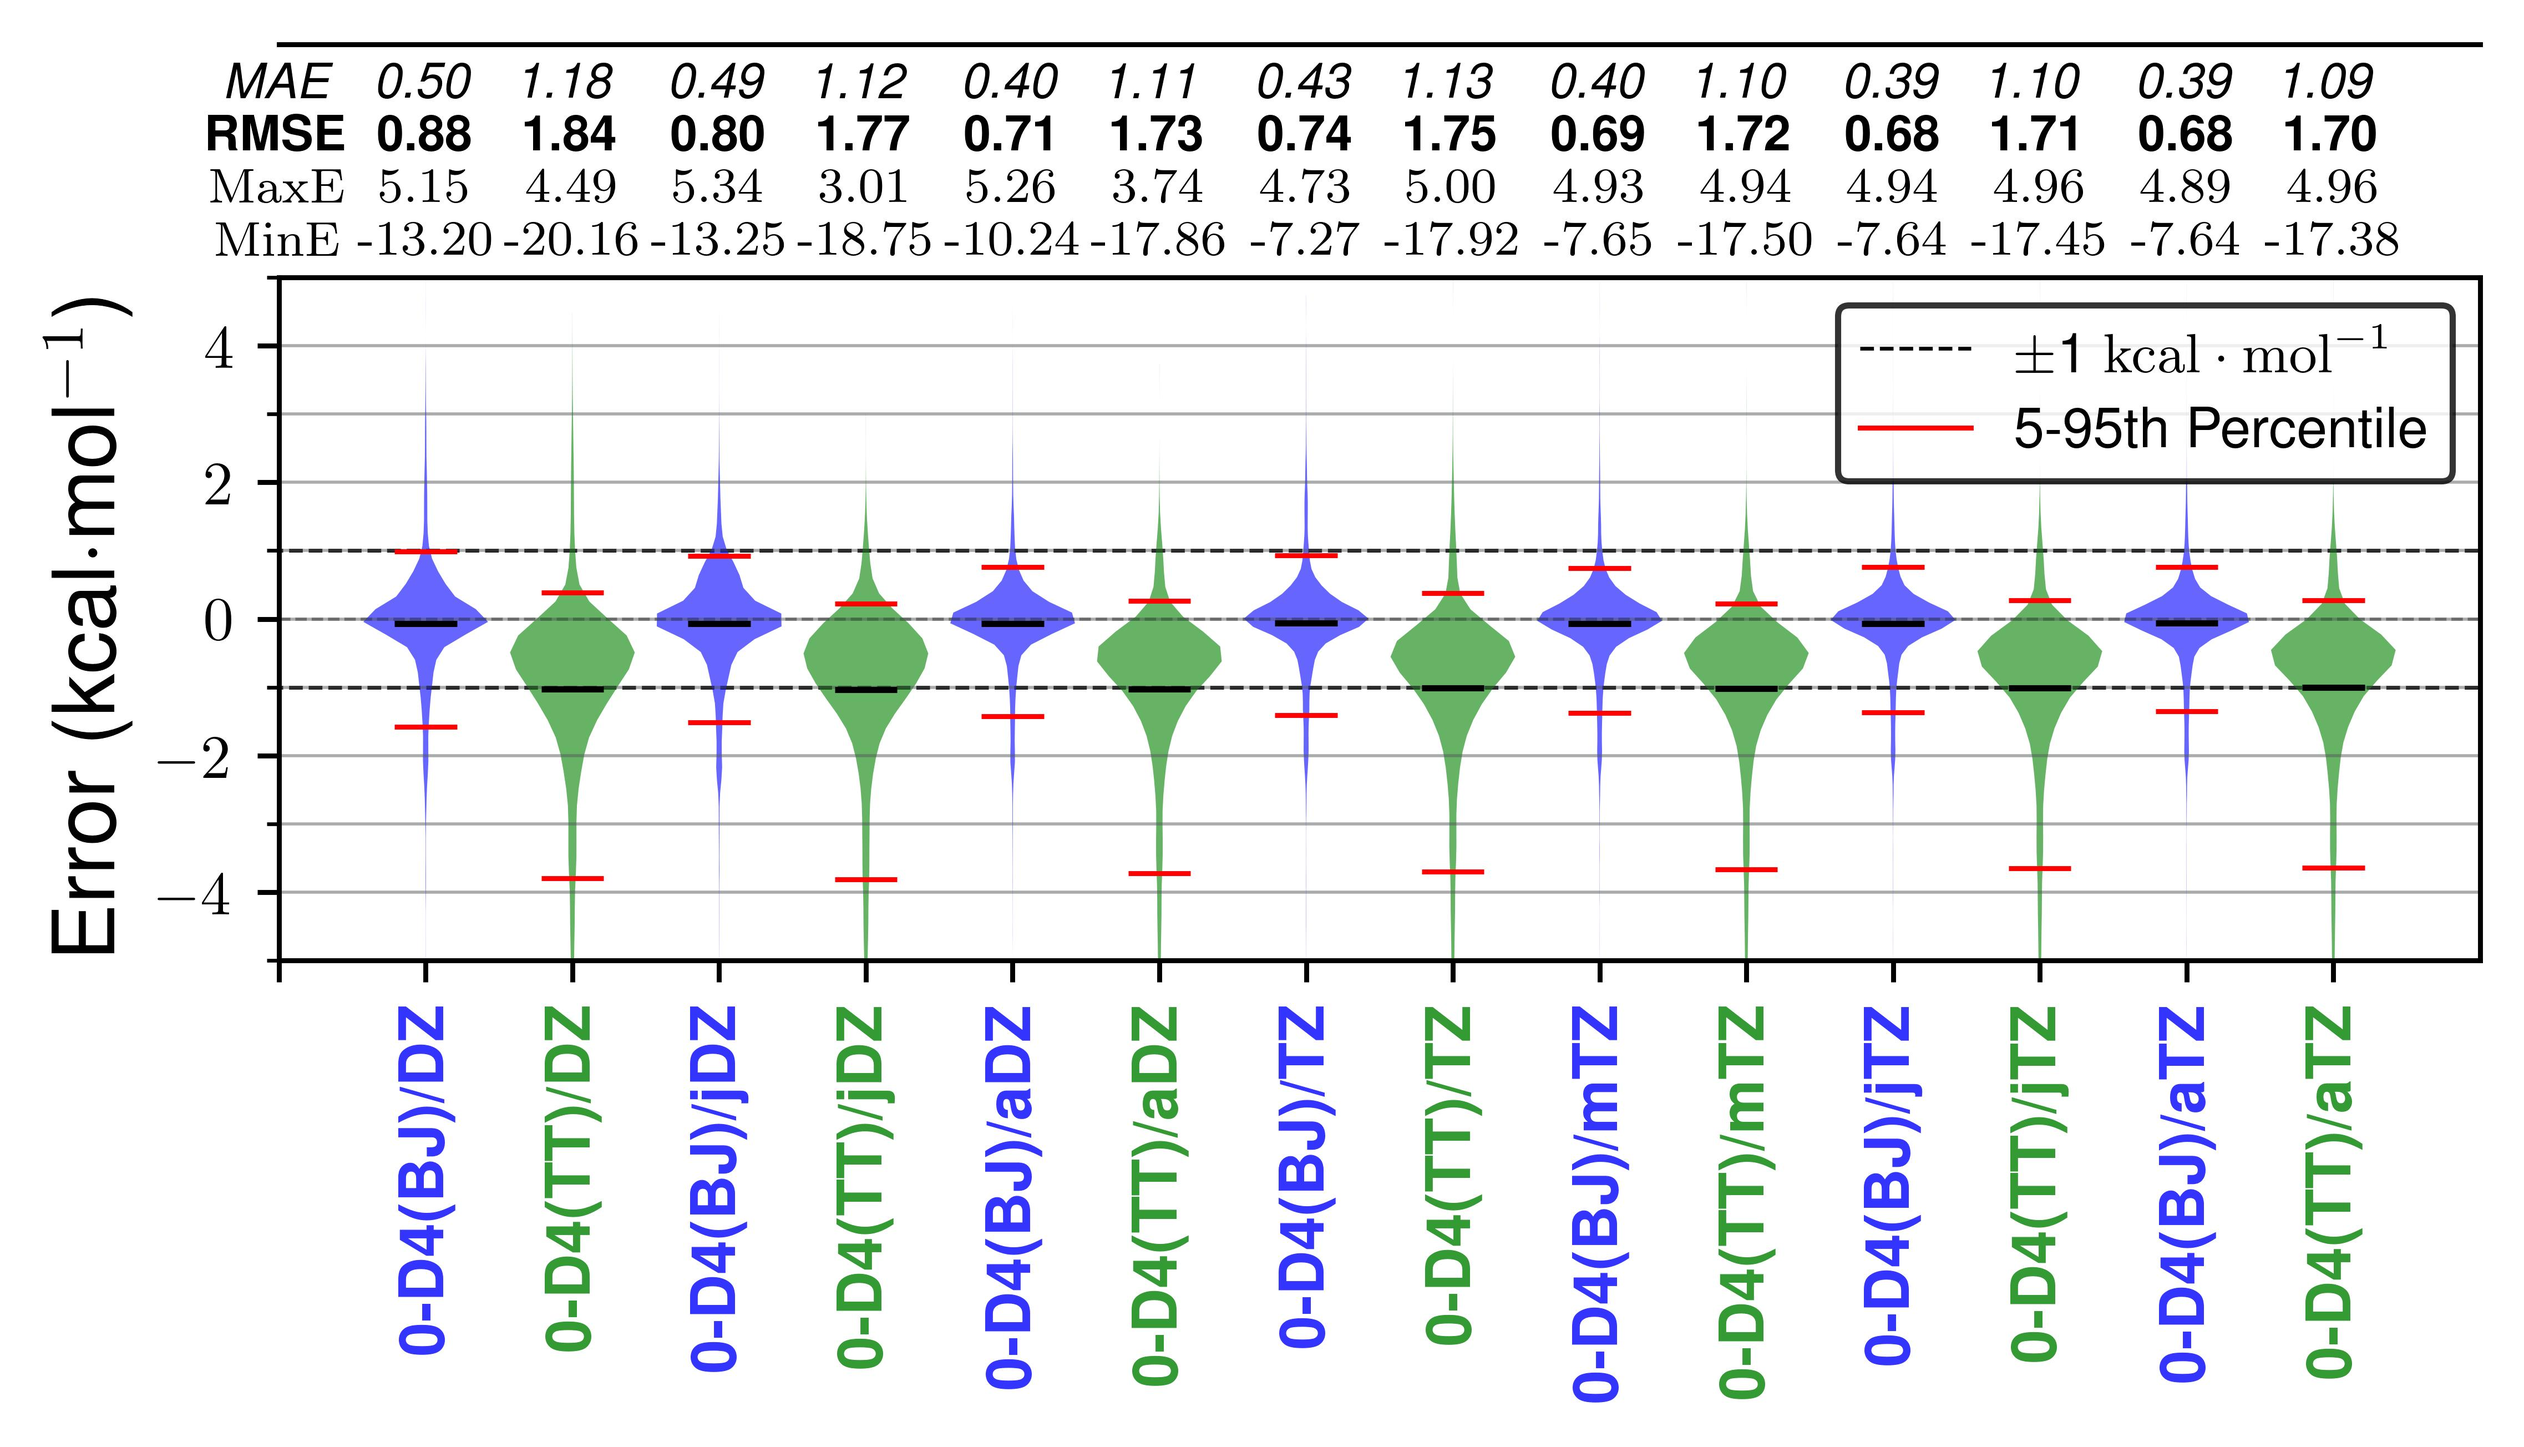
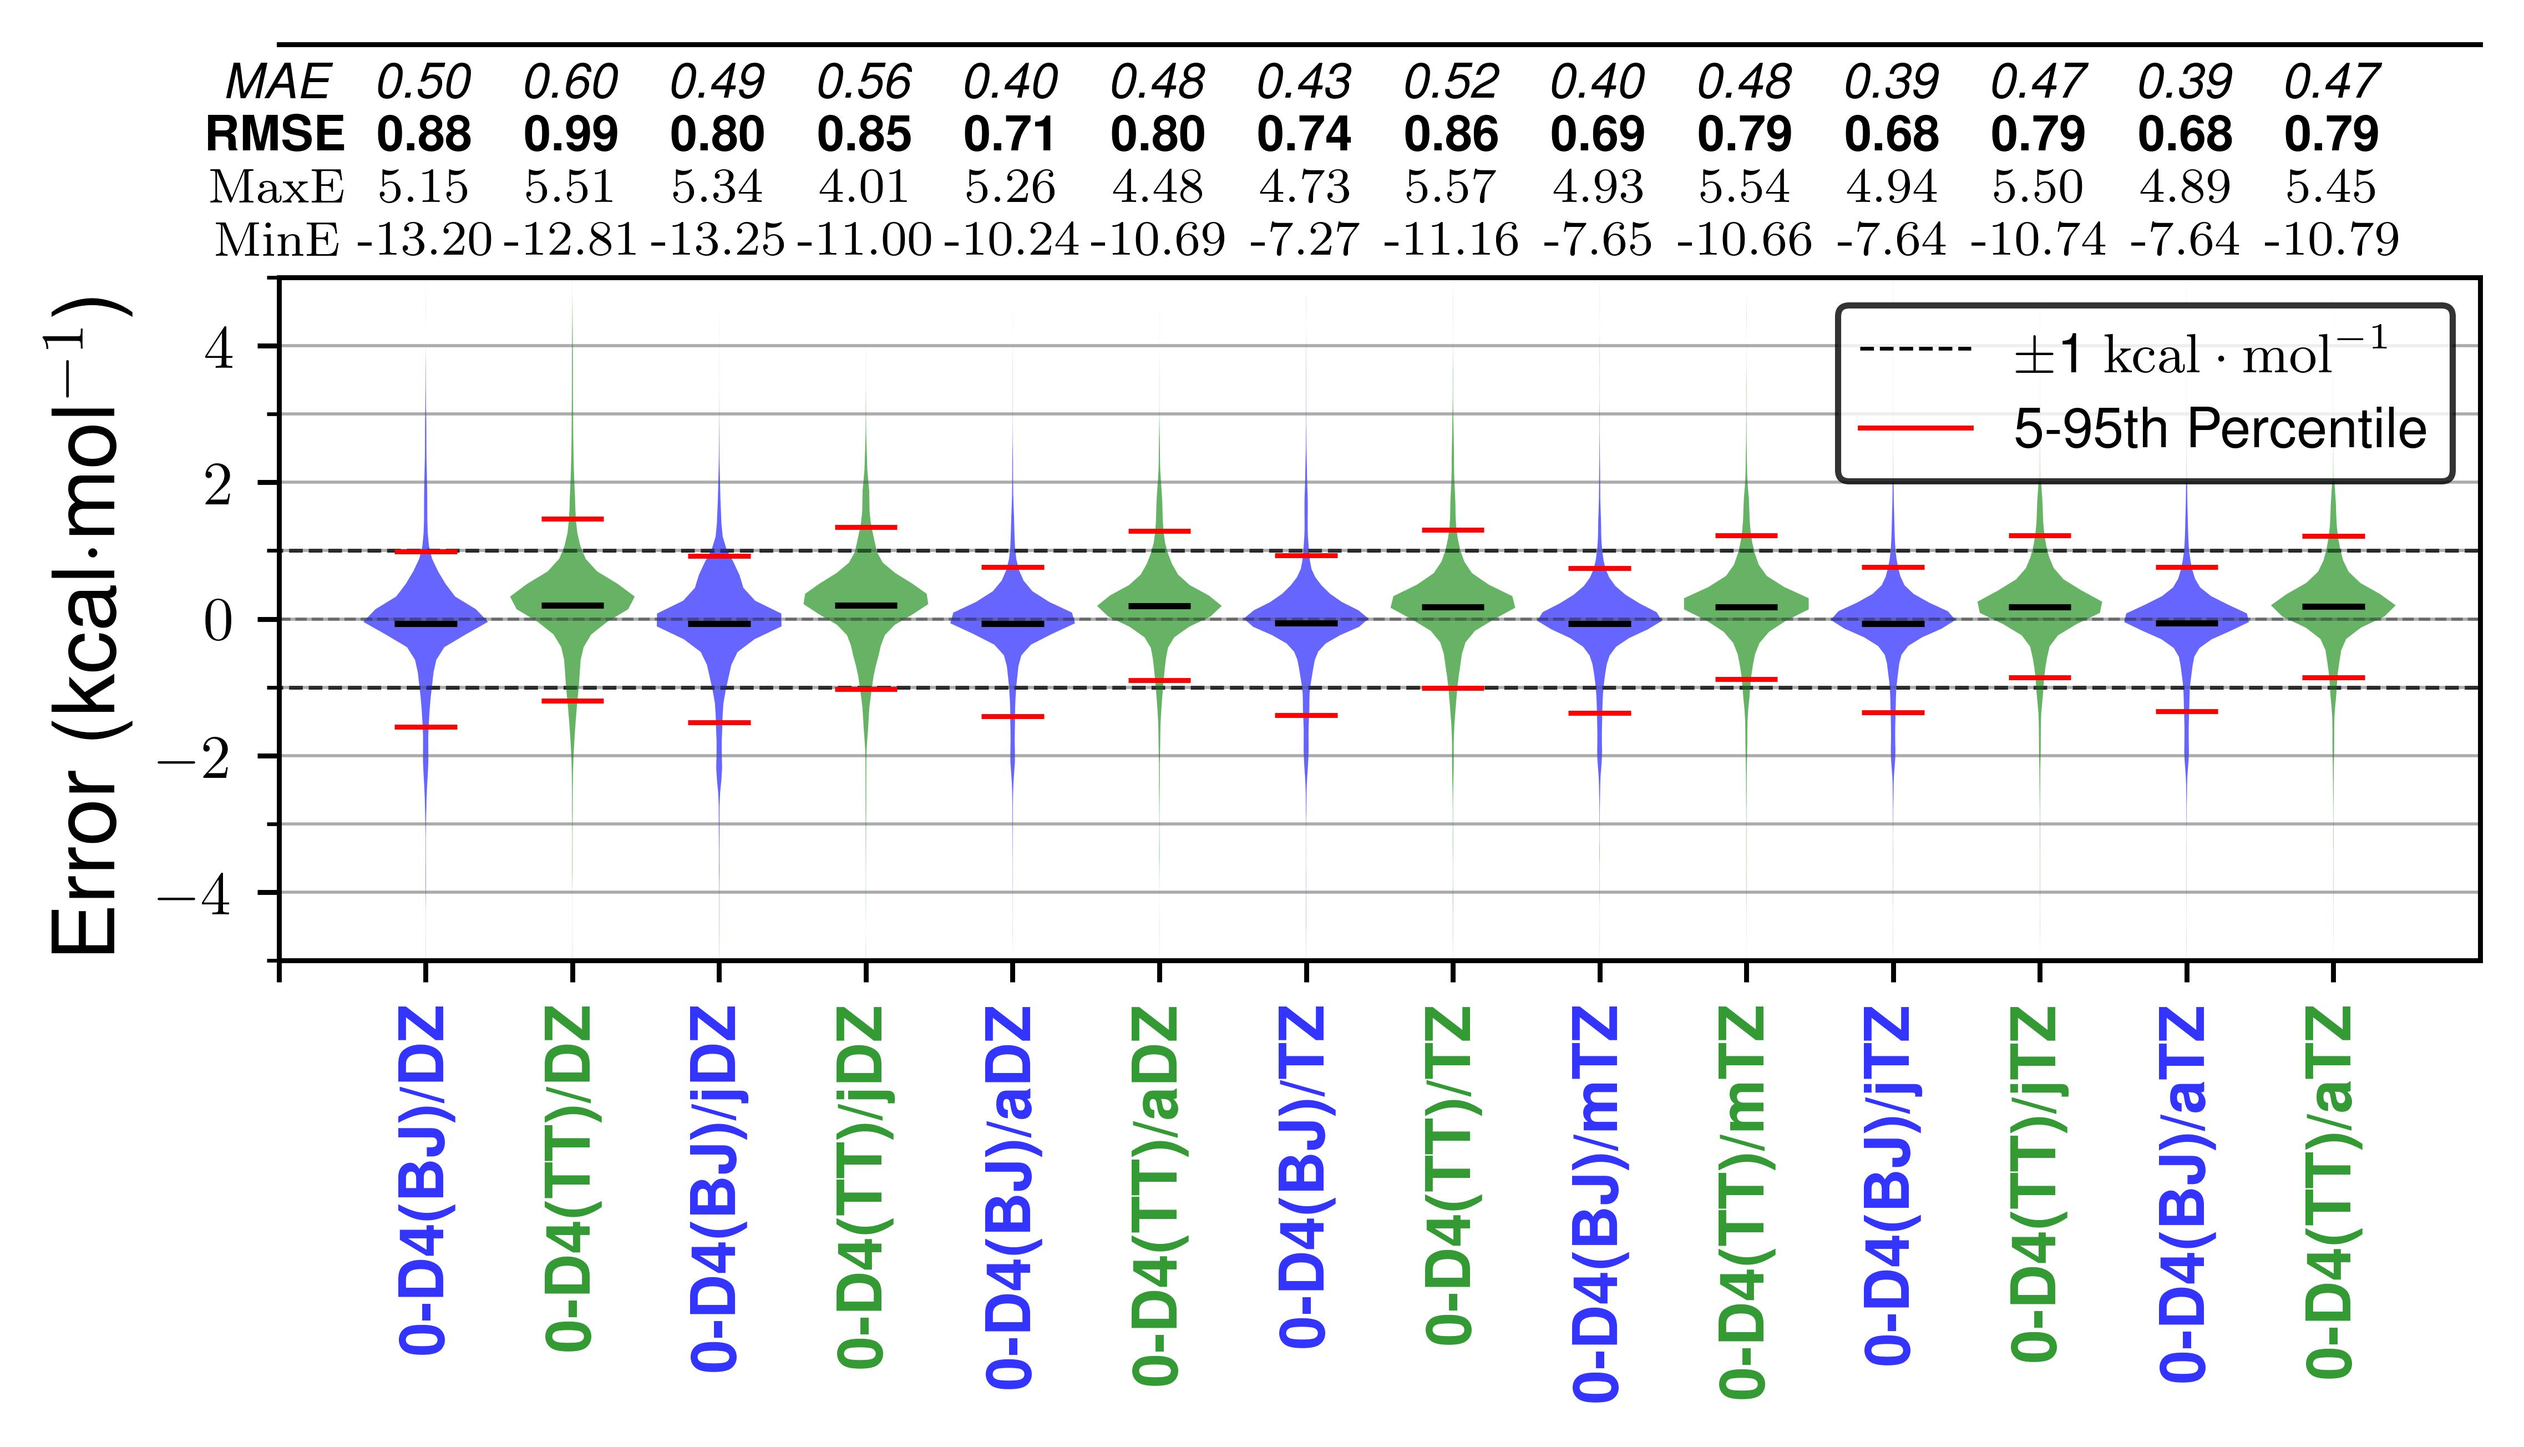
hbc1 plots

diff --git a/src/paramsTable.py b/src/paramsTable.py
@@ -157,46 +157,58 @@ def paramsDict() -> {}:
             dtype=np.float64,
         ),
         # 2B TT, no ATM
-        "SAPT0_adz_3_IE_2B_TT": np.array(
+        "SAPT0_dz_3_IE_2B_TT": np.array(
             [
-                [1.0, 0.15608556, -0.33516031, 3.88601556, 0.0],
-                [1.0, 0.15608556, -0.33516031, 3.88601556, 0.0],
+                [1.0, 0.29125971, -0.48591514, 5.44574031, 0.0],
+                [1.0, 0.29125971, -0.48591514, 5.44574031, 0.0],
             ]
         ),
         "SAPT0_jdz_3_IE_2B_TT": np.array(
             [
-                [1.0, 0.13964684, -0.33516374, 3.90019226, 0.0],
-                [1.0, 0.13964684, -0.33516374, 3.90019226, 0.0],
+                [1.0, 0.28665436, -0.42204918, 5.12601723, 0.0],
+                [1.0, 0.28665436, -0.42204918, 5.12601723, 0.0],
             ]
         ),
-        "SAPT0_dz_3_IE_2B_TT": np.array(
+        "SAPT0_adz_3_IE_2B_TT": np.array(
             [
-                [1.0, 0.14640137, -0.33539648, 3.89159297, 0.0],
-                [1.0, 0.14640137, -0.33539648, 3.89159297, 0.0],
-            ]
-        ),
-        "SAPT0_mtz_3_IE_2B_TT": np.array(
-            [
-                [1.0, 0.16657909, -0.33519359, 3.88207733, 0.0],
-                [1.0, 0.16657909, -0.33519359, 3.88207733, 0.0],
-            ]
-        ),
-        "SAPT0_jtz_3_IE_2B_TT": np.array(
-            [
-                [1.0, 0.16800654, -0.335142, 3.87820076, 0.0],
-                [1.0, 0.16800654, -0.335142, 3.87820076, 0.0],
-            ]
-        ),
-        "SAPT0_atz_3_IE_2B_TT": np.array(
-            [
-                [1.0, 0.16863906, -0.33510403, 3.87576844, 0.0],
-                [1.0, 0.16863906, -0.33510403, 3.87576844, 0.0],
+                [1.0, 0.29460761, -0.44651087, 5.23479126, 0.0],
+                [1.0, 0.29460761, -0.44651087, 5.23479126, 0.0],
             ]
         ),
         "SAPT0_tz_3_IE_2B_TT": np.array(
             [
-                [1.0, 0.17021906, -0.33526289, 3.87804042, 0.0],
-                [1.0, 0.17021906, -0.33526289, 3.87804042, 0.0],
+                [1.0, 0.30253649, -0.4865003, 5.40923461, 0.0],
+                [1.0, 0.30253649, -0.4865003, 5.40923461, 0.0],
+            ]
+        ),
+        "SAPT0_mtz_3_IE_2B_TT": np.array(
+            [
+                [1.0, 0.2992232, -0.44919431, 5.23014423, 0.0],
+                [1.0, 0.2992232, -0.44919431, 5.23014423, 0.0],
+            ]
+        ),
+        "SAPT0_jtz_3_IE_2B_TT": np.array(
+            [
+                [1.0, 0.3012145, -0.45505488, 5.25168685, 0.0],
+                [1.0, 0.3012145, -0.45505488, 5.25168685, 0.0],
+            ]
+        ),
+        "SAPT0_atz_3_IE_2B_TT": np.array(
+            [
+                [1.0, 0.30261729, -0.4555023, 5.24588173, 0.0],
+                [1.0, 0.30261729, -0.4555023, 5.24588173, 0.0],
+            ]
+        ),
+        "SAPT_DFT_adz_3_IE_2B_TT": np.array(
+            [
+                [1.0, 0.22424266, -0.47766036, 5.99038789, 0.0],
+                [1.0, 0.22424266, -0.47766036, 5.99038789, 0.0],
+            ]
+        ),
+        "SAPT_DFT_atz_3_IE_2B_TT": np.array(
+            [
+                [1.0, 0.23411801809020494, -0.4800724594734656, 5.861178021182603, 0.0],
+                [1.0, 0.23411801809020494, -0.4800724594734656, 5.861178021182603, 0.0],
             ]
         ),
         "3B_TT": np.array(
@@ -531,6 +543,12 @@ def paramsDict() -> {}:
             0.0,
         ],
         "pbe": [1.0000, 3.64405246, 0.52905620, 4.11311891, 0.0],
+        "sadz_supra": np.array(
+            [
+                [1.0, 0.56063068, 0.65540802, 1.06422537, 0.0],
+                [1.0, 0.56063068, 0.65540802, 1.06422537, 0.0],
+            ]
+        ),
     }
     return params_dict
 

diff --git a/plot_hbc6_supermolecular.py b/plot_hbc6_supermolecular.py
@@ -1,0 +1,83 @@
+import numpy as np
+import pandas as pd
+import matplotlib.pyplot as plt
+from pprint import pprint as pp
+from src import paramsTable, locald4
+from qm_tools_aw import tools
+import os
+
+plt.rcParams.update(
+    {
+        "text.usetex": True,
+        "font.family": "sans-serif",
+        "font.sans-serif": "Helvetica",
+        "mathtext.fontset": "custom",
+    }
+)
+
+def plot_hbc6_1():
+    df = pd.read_pickle("./plots/basis_study.pkl")
+    # pp(df.columns.values.tolist())
+    p_2b, p_atm = paramsTable.param_lookup("sadz_supra")
+    print(p_2b, p_atm)
+    df["distance (A)"] = df.apply(
+        lambda r: tools.closest_intermolecular_contact_dimer(
+            r["Geometry"], r["monAs"], r["monBs"]
+        ),
+        axis=1,
+    )
+
+    df["d4_supra"] = df.apply(
+        lambda row: locald4.compute_disp_2B_BJ_dimer_supra(
+            row,
+            p_2b,
+            p_atm,
+        ),
+        axis=1,
+    )
+    p_2b, p_atm = paramsTable.param_lookup("sadz")
+    df["d4_super"] = df.apply(
+        lambda row: locald4.compute_disp_2B_BJ_ATM_CHG_dimer(
+            row,
+            p_2b,
+            p_atm,
+        ),
+        axis=1,
+    )
+    df["SAPT0_disp"] = df.apply(lambda r: r["SAPT0_adz"][-1], axis=1)
+    df["E_res"] = df.apply(lambda r: r["Benchmark"] - sum(r["SAPT0_adz"][1:-1]), axis=1)
+    print(df["DB"].unique())
+    df_hbc6 = df[df["DB"] == "HBC1"]
+    print(
+        df_hbc6[
+            ["SAPT0_disp", "d4_supra", "d4_super", "E_res", "System #", "distance (A)"]
+        ]
+    )
+    # plt usetex
+    # for db in df["DB"].unique():
+    sys_numbers = df_hbc6['System #'].unique()
+    for i in sys_numbers:
+        df_sys = df_hbc6[df_hbc6['System #'] == i]
+        print(df_sys[["SAPT0_disp", "d4_supra", "d4_super", "E_res", "System #", "distance (A)"]])
+        df_sys = df_sys.sort_values("distance (A)")
+        plt.plot(df_sys["distance (A)"], df_sys["d4_supra"], label=f"-D4 Non-Super", marker="o", markersize=2.0)
+        plt.plot(df_sys["distance (A)"], df_sys["d4_super"], label=f"-D4 Super", marker="o", markersize=2.0)
+        plt.plot(df_sys["distance (A)"], df_sys["SAPT0_disp"], label=f"SAPT0 Disp.", marker="o", markersize=2.0)
+        plt.plot(df_sys["distance (A)"], df_sys["E_res"], label=r"E_{res}", marker="o", markersize=2.0)
+        plt.title(f"HBC6 System {i}")
+        plt.xlabel("Distance (A)", fontsize=16)
+        plt.ylabel("Error (kcal/mol)", fontsize=16)
+        plt.tick_params(axis="both", which="major", labelsize=14)
+        plt.legend()
+        plt.savefig(f"./plots/hbc1/{i}_d4_super.png")
+        plt.clf()
+    return
+
+
+def main():
+    plot_hbc6_1()
+    return
+
+
+if __name__ == "__main__":
+    main()

diff --git a/src/optimization.py b/src/optimization.py
@@ -1071,15 +1071,23 @@ def optimization(
         compute = compute_int_energy_DISP_2B_BJ_supra
     elif version["compute_energy"] == "compute_int_energy_DISP_2B_TT_supra":
         compute = compute_int_energy_DISP_2B_TT_supra
+        if type(params[0]) == float and len(params) == 1:
+            bounds = [(0.0, 1.0)]
+        if len(params) == 2:
+            bounds = [(-1.0, -0.001), (3.0, 6.0)]
+        elif len(params) == 3:
+            bounds = [(-1.0, 1.0),(-1.0, -0.001), (1.0, 6.0)]
+        else:
+            bounds = [(-1.0, 1.0),(-1.0, -0.001), (1.0, 6.0), (-1.0, -0.001), (1.0, 6.0)]
     elif version["compute_energy"] == "compute_int_energy_DISP_2B_BJ_ATM_TT":
         compute = compute_int_energy_DISP_2B_BJ_ATM_TT
         # bounds = [(-1.0, -0.001), (3.0, 6.0)]
         if len(params) == 2:
-            bounds = [(-1.0, -0.001), (3.0, 6.0)]
+            bounds = [(-1.0, -0.001), (1.0, 6.0)]
         elif len(params) == 3:
-            bounds = [(-3.0, 6.0),(-1.0, -0.001), (-3.0, 6.0)]
+            bounds = [(-3.0, 6.0),(-1.0, -0.001), (1.0, 6.0)]
         else:
-            bounds = [(-3.0, 6.0),(-3.0, 6.0), (-3.0, 6.0), (-1.0, -0.001), (-3.0, 6.0)]
+            bounds = [(0.0, 1.0),(1.0, 6.0), (1.0, 6.0), (-1.0, -0.001), (1.0, 6.0)]
     elif version["compute_energy"] == "compute_int_energy_DISP_2B_TT_ATM_TT":
         compute = compute_int_energy_DISP_2B_TT_ATM_TT
         # bounds = [(-1.0, -0.001), (3.0, 6.0)]
@@ -1088,9 +1096,9 @@ def optimization(
         if len(params) == 2:
             bounds = [(-1.0, -0.001), (3.0, 6.0)]
         elif len(params) == 3:
-            bounds = [(-3.0, 6.0),(-1.0, -0.001), (-3.0, 6.0)]
+            bounds = [(0.0, 1.0),(-1.0, -0.001), (1.0, 6.0)]
         else:
-            bounds = [(-3.0, 6.0),(-1.0, -0.001), (-3.0, 6.0), (-1.0, -0.001), (-3.0, 6.0)]
+            bounds = [(0.0, 1.0),(-1.0, -0.001), (1.0, 6.0), (-1.0, -0.001), (1.0, 6.0)]
     elif version["compute_energy"] == "compute_int_energy":
         compute = compute_int_energy
     elif version["compute_energy"] == "compute_int_energy_ATM":

diff --git a/plot.py b/plot.py
@@ -13,15 +13,16 @@ def main():
         subprocess.call("mv basis_study.pkl plots/basis_study.pkl", shell=True)
     df = pd.read_pickle(df_name)
     # print(df.columns.values)
+    df = src.plotting.plot_basis_sets_d4_TT(
+        df,
+        True,
+    )
+    return
     df = src.plotting.plotting_setup(
         (df, df_name),
         False,
     )
     return
-    df = src.plotting.plot_basis_sets_d4_TT(
-        df,
-        True,
-    )
     df = src.plotting.plot_basis_sets_d4(
         df,
         False,
